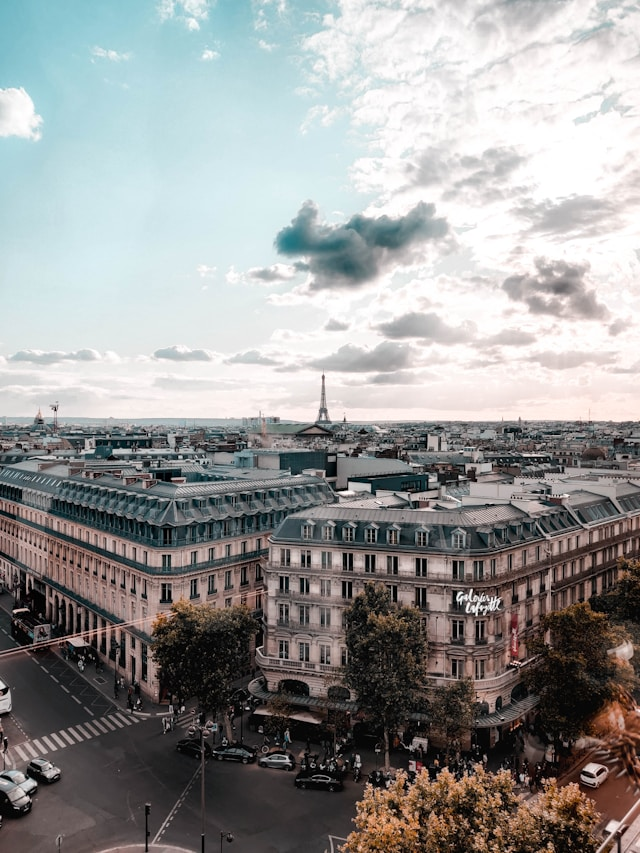
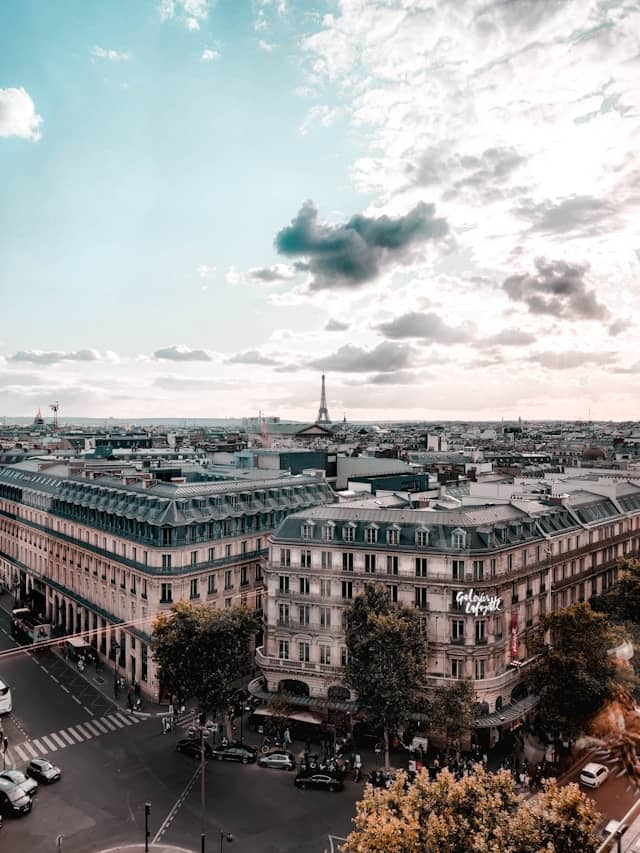
optimizied image sizes

Changed region(s): [[0.75, 0.5791, 0.7812, 0.6096]]

diff --git a/contact.html b/contact.html
@@ -3,7 +3,8 @@
   <head>
     <meta charset="UTF-8" />
     <meta name="viewport" content="width=device-width, initial-scale=1.0" />
-    <title>Document</title>
+    <title>Contact Us</title>
+    <link rel="icon" type="image/x-icon" href="/images/favicon.ico" />
     <link rel="stylesheet" href="./assets/styles/styles.css" />
     <link rel="stylesheet" href="./assets/styles/contact.css" />
   </head>

diff --git a/about.html b/about.html
@@ -3,7 +3,8 @@
   <head>
     <meta charset="UTF-8" />
     <meta name="viewport" content="width=device-width, initial-scale=1.0" />
-    <title>Document</title>
+    <title>About Us</title>
+    <link rel="icon" type="image/x-icon" href="/images/favicon.ico" />
     <link rel="stylesheet" href="./assets/styles/styles.css" />
     <link rel="stylesheet" href="./assets/styles/about.css" />
   </head>

diff --git a/index.html b/index.html
@@ -4,7 +4,8 @@
     <meta charset="UTF-8" />
     <meta name="viewport" content="width=device-width, initial-scale=1.0" />
 
-    <title>Document</title>
+    <title>Home</title>
+    <link rel="icon" type="image/x-icon" href="/images/favicon.ico" />
     <link rel="stylesheet" href="./assets/styles/styles.css" />
     <link rel="stylesheet" href="./assets/styles/index.css" />
   </head>
